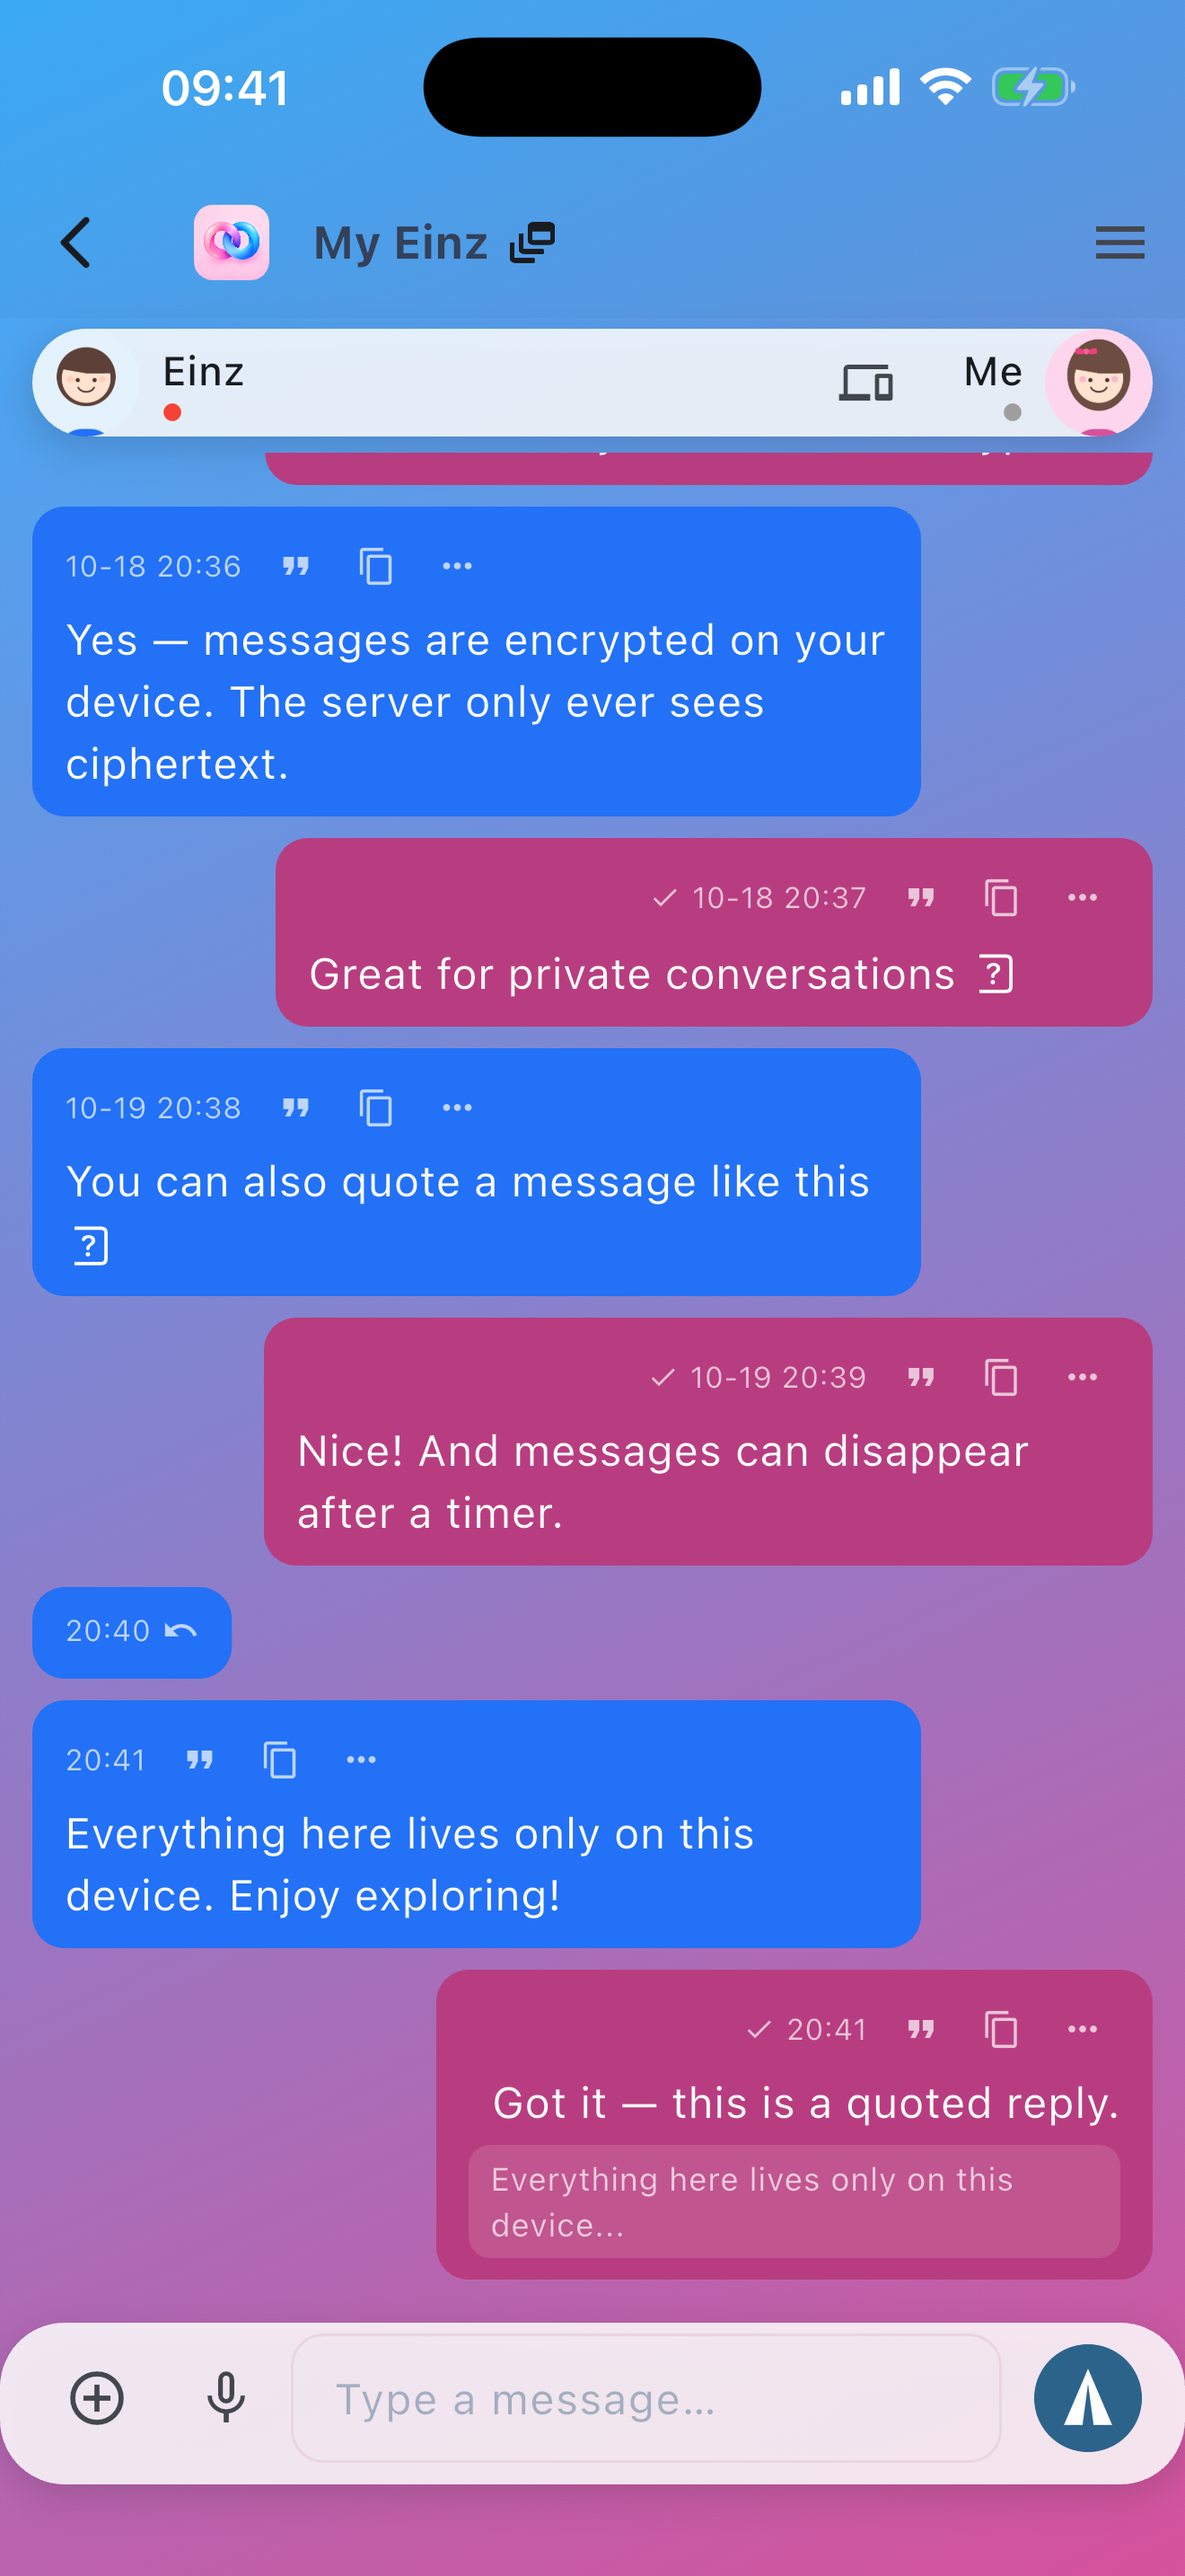
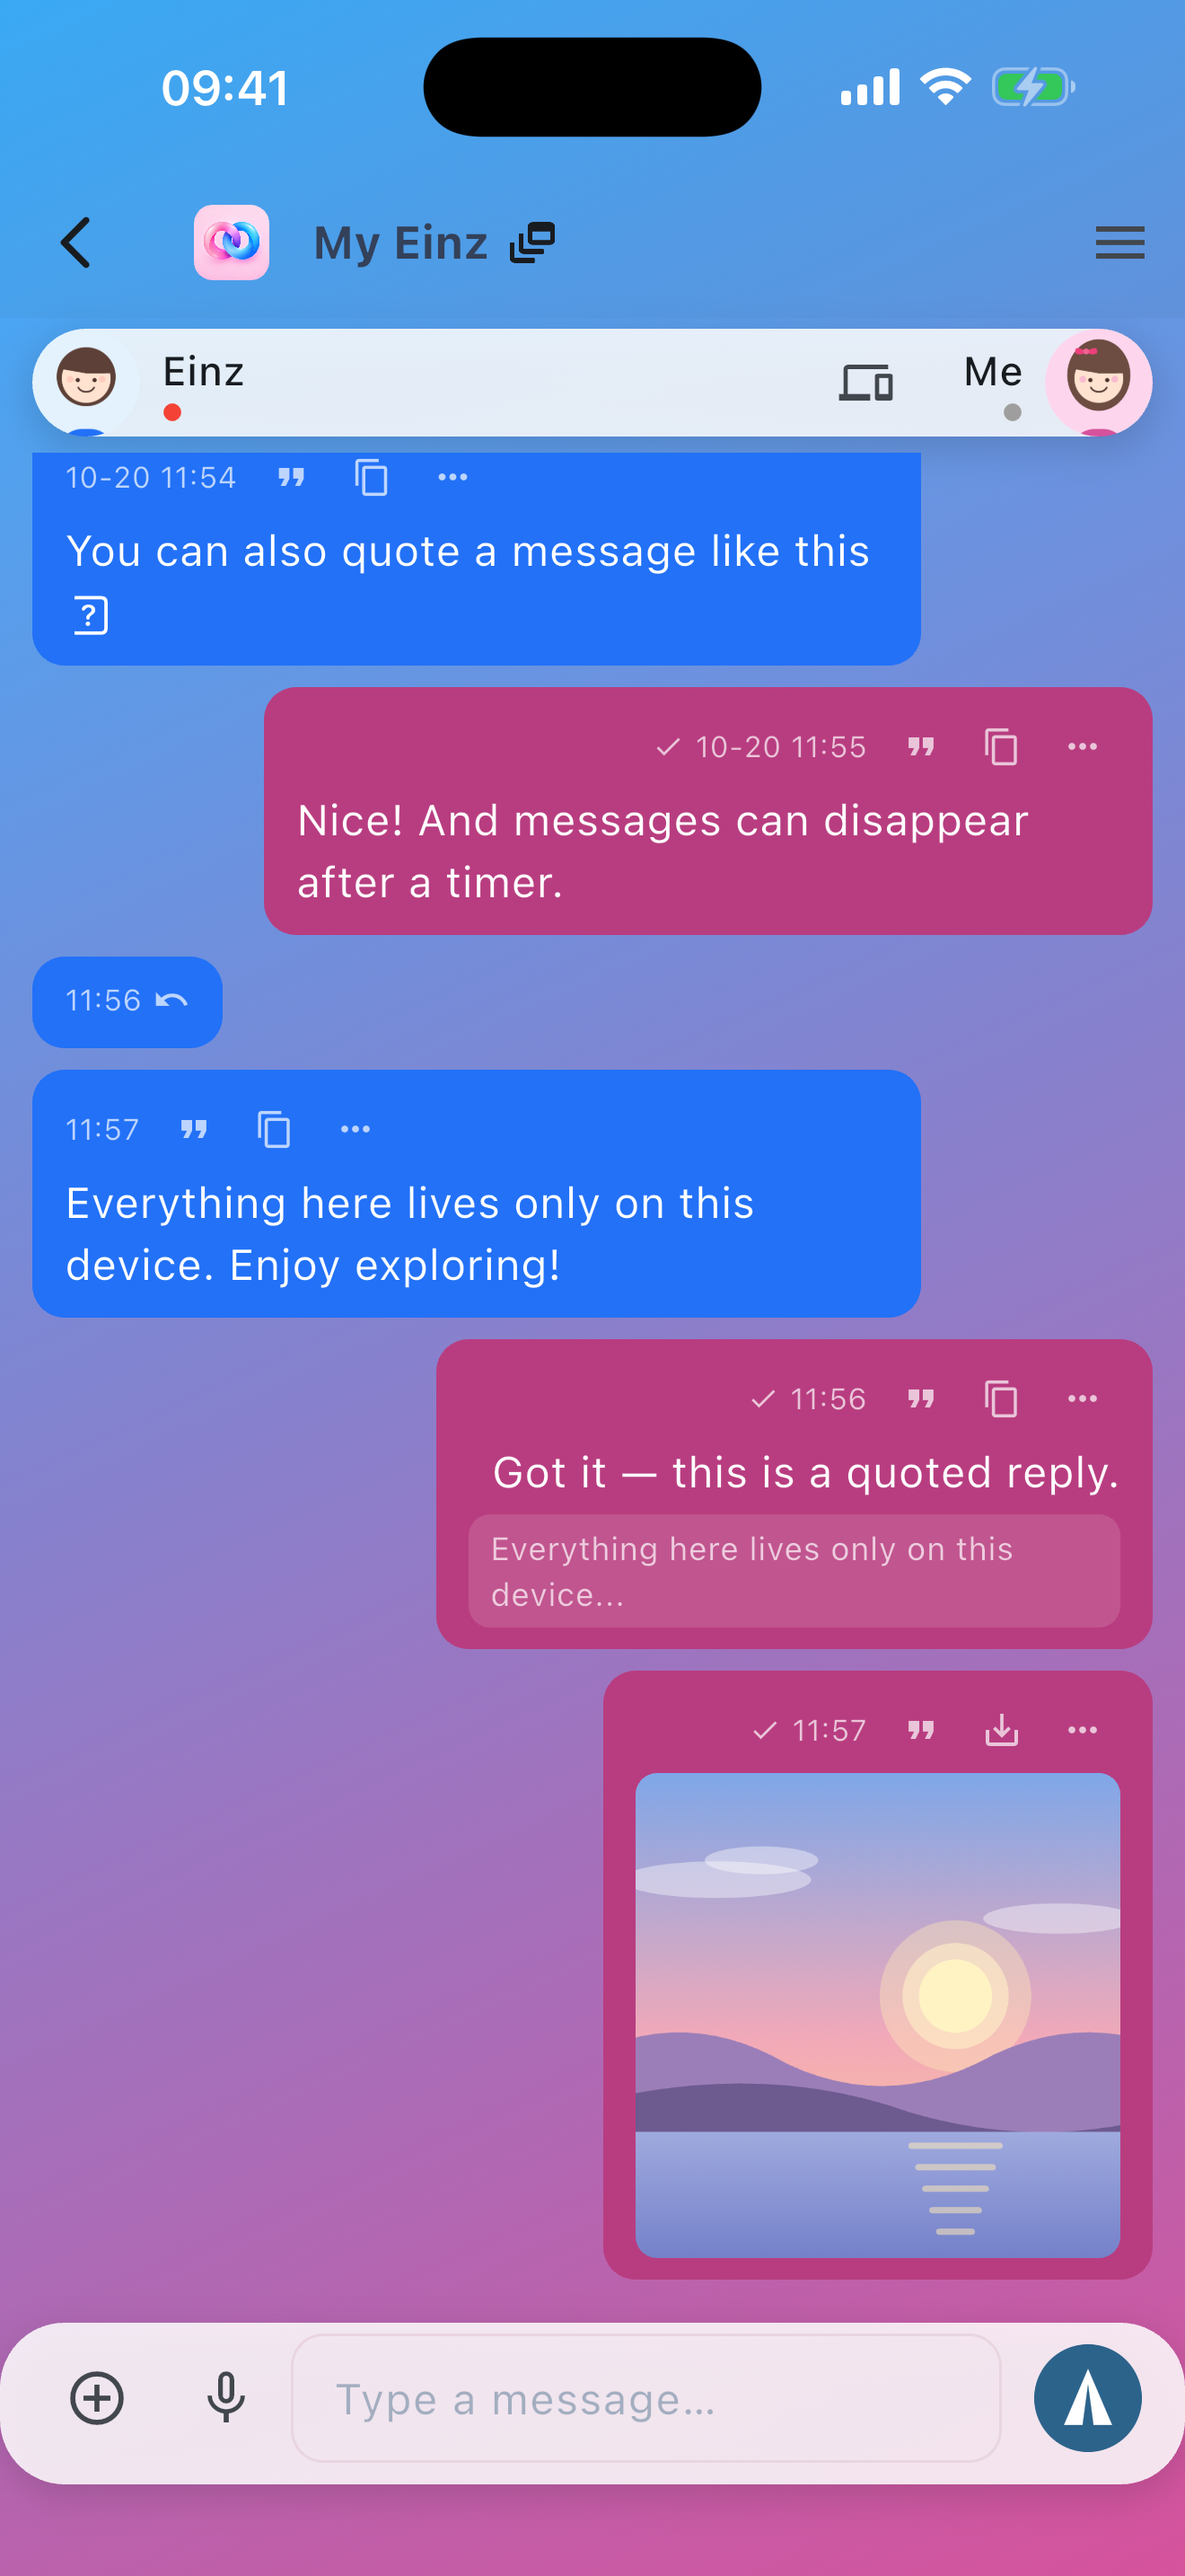
feat: 演示空间预设日出风景照片消息（真实附件链路，零二进制资产）
- _paintPhoto 纯 Dart 绘制日出风景，encryptAttachment 密文进 local_cipher
- 位置最后一条（引用回复挪早 1 分钟），聊天截图首屏最显眼处
- seed 版本 bump v2，重种前清理 demo 空间旧数据防双份
- 英文截图 5 张重新产出，03 聊天主界面含图片气泡

diff --git a/app/lib/data/demo_space.dart b/app/lib/data/demo_space.dart
@@ -38,8 +38,9 @@ class DemoSpace {
   static final Uint8List spaceKey =
       Uint8List.fromList(base64Decode('ZGVtb0RlbW9EZW1vRGVtb0RlbW9EZW1vRGVtbw=='));
 
-  /// seeding 是否已完成的 app_state 键（v1 = 内容结构版本，改演示内容时递增）。
-  static const String _kSeeded = 'demo_space.seeded_v1';
+  /// seeding 是否已完成的 app_state 键（内容结构版本，改演示内容时递增）。
+  /// v2 = 2026-10-21 新增预设图片消息（老板：截图画面更丰富）。
+  static const String _kSeeded = 'demo_space.seeded_v2';
 
   /// 我的/对方的演示显示名（走 l10n，见 setup 进入点传入）。
   static const String demoMemberName = 'Einz';
@@ -56,6 +57,14 @@ class DemoSpace {
           ..where((s) => s.key.equals(_kSeeded)))
         .getSingleOrNull();
     if (flag != null) return;
+    // 版本升级重种（如 v1→v2）：先清掉 demo 空间旧消息/附件，防止新旧两套并存。
+    // 只删 demo spaceId——真实空间的数据不受影响。
+    await (db.delete(db.localMessages)
+          ..where((t) => t.spaceId.equals(spaceId)))
+        .go();
+    await (db.delete(db.localAttachments)
+          ..where((t) => t.spaceId.equals(spaceId)))
+        .go();
 
     final now = DateTime.now().millisecondsSinceEpoch;
     final day = const Duration(days: 1).inMilliseconds;
@@ -155,7 +164,8 @@ class DemoSpace {
       nonce: quoteEnv.nonce,
       ciphertext: quoteEnv.ciphertext,
       serverSequence: seq,
-      createdAt: now,
+      // 比图片消息早 1 分钟——图片是最后一条（聊天页滚到底，截图最显眼位置）
+      createdAt: now - 60000,
     );
     await db.into(db.localMessages).insert(
           LocalMessagesCompanion.insert(
@@ -166,6 +176,73 @@ class DemoSpace {
             keyVersion: 1,
             nonce: quoteEnv.nonce,
             ciphertext: jsonEncode(quoteEnvFinal.toJson()),
+            createdAt: now - 60000,
+            localCreatedAt: now - 60000,
+            status: const Value('read'),
+            serverSequence: Value(seq),
+          ),
+        );
+    seq++;
+
+    // 图片消息（2026-10-21 老板：演示空间预设一张"照片"，截图画面更丰富）：
+    // 我方发的日出风景照（纯 Dart 运行时绘制，零二进制资产），走**真实的**
+    // 附件链路——encryptAttachment 密文进 local_attachments.local_cipher，
+    // 渲染/点击全屏与真实图片消息完全一致。caption 不上气泡，仅作载荷文本。
+    final photoId = 'demo-msg-${seq.toString().padLeft(4, '0')}';
+    final photoAttId = 'demo-att-${seq.toString().padLeft(4, '0')}';
+    final photoBytes = await _paintPhoto();
+    final enc = await encryptAttachment(
+      fileBytes: photoBytes,
+      spaceKey: spaceKey,
+      attachmentId: photoAttId,
+      spaceId: spaceId,
+      keyVersion: 1,
+    );
+    await db.into(db.localAttachments).insert(
+          LocalAttachmentsCompanion.insert(
+            attachmentId: photoAttId,
+            messageId: photoId,
+            keyVersion: 1,
+            size: enc.size,
+            sha256: enc.sha256,
+            nonce: base64Encode(enc.nonce),
+            localCipher: Value(enc.cipher),
+            spaceId: Value(spaceId),
+            status: const Value('downloaded'),
+          ),
+        );
+    final photoCaption = chinese
+        ? '晨跑的日出 🌅 和这里的一切一样，是加密的。'
+        : 'Sunrise from my morning walk 🌅 — encrypted like everything else here.';
+    final photoEnv = await encryptMessage(
+      plaintext: photoCaption,
+      spaceKey: spaceKey,
+      spaceId: spaceId,
+      senderEntranceId: myEntranceId,
+      messageId: photoId,
+      type: 'image',
+      keyVersion: 1,
+    );
+    final photoEnvFinal = MessageEnvelope(
+      v: photoEnv.v,
+      type: photoEnv.type,
+      keyVersion: photoEnv.keyVersion,
+      messageId: photoEnv.messageId,
+      senderEntranceId: photoEnv.senderEntranceId,
+      nonce: photoEnv.nonce,
+      ciphertext: photoEnv.ciphertext,
+      serverSequence: seq,
+      createdAt: now,
+    );
+    await db.into(db.localMessages).insert(
+          LocalMessagesCompanion.insert(
+            messageId: photoId,
+            spaceId: spaceId,
+            senderEntranceId: myEntranceId,
+            type: 'image',
+            keyVersion: 1,
+            nonce: photoEnv.nonce,
+            ciphertext: jsonEncode(photoEnvFinal.toJson()),
             createdAt: now,
             localCreatedAt: now,
             status: const Value('read'),
@@ -272,6 +349,98 @@ class DemoSpace {
     }
 
     final image = await rec.endRecording().toImage(size.toInt(), size.toInt());
+    final data = await image.toByteData(format: ui.ImageByteFormat.png);
+    return data!.buffer.asUint8List();
+  }
+
+  /// 演示"照片"：纯 Dart 画的日出风景（与头像同一套零二进制资产手法）。
+  /// 1024×768（4:3 随手拍比例）：渐变晨空 + 太阳光晕 + 云 + 两层山剪影 +
+  /// 水面与太阳倒影。配色与 app 品牌粉蓝渐变呼应。
+  static Future<Uint8List> _paintPhoto() async {
+    const w = 1024.0, h = 768.0;
+    final rec = ui.PictureRecorder();
+    final canvas = ui.Canvas(rec);
+    final rect = Rect.fromLTWH(0, 0, w, h);
+
+    // 晨空：上冷下暖（晨蓝 → 粉 → 暖橙）
+    canvas.drawRect(
+      rect,
+      Paint()
+        ..shader = ui.Gradient.linear(
+          Offset.zero,
+          Offset(0, h),
+          const [Color(0xFF7FA7E8), Color(0xFFF2A9B8), Color(0xFFFFD08A)],
+          const [0.0, 0.55, 1.0],
+        ),
+    );
+
+    // 太阳：光晕（大半透明圆）+ 亮核
+    final sun = Offset(w * 0.62, h * 0.46);
+    canvas.drawCircle(sun, 120, Paint()..color = const Color(0x66FFE9B8));
+    canvas.drawCircle(sun, 84, Paint()..color = const Color(0x99FFF0C8));
+    canvas.drawCircle(sun, 58, Paint()..color = const Color(0xFFFFF3C4));
+
+    // 云（半透明白椭圆组）
+    final cloud = Paint()..color = const Color(0x66FFFFFF);
+    canvas.drawOval(
+        Rect.fromCenter(center: Offset(w * 0.25, h * 0.22), width: 300, height: 58), cloud);
+    canvas.drawOval(
+        Rect.fromCenter(center: Offset(w * 0.32, h * 0.18), width: 180, height: 44), cloud);
+    canvas.drawOval(
+        Rect.fromCenter(center: Offset(w * 0.78, h * 0.30), width: 240, height: 48), cloud);
+
+    // 远山（淡紫）与近山（深紫）剪影
+    final back = ui.Path()
+      ..moveTo(0, h * 0.62)
+      ..quadraticBezierTo(w * 0.18, h * 0.46, w * 0.36, h * 0.60)
+      ..quadraticBezierTo(w * 0.52, h * 0.70, w * 0.68, h * 0.58)
+      ..quadraticBezierTo(w * 0.84, h * 0.48, w, h * 0.60)
+      ..lineTo(w, h * 0.74)
+      ..lineTo(0, h * 0.74)
+      ..close();
+    canvas.drawPath(back, Paint()..color = const Color(0xFF9B7EB8));
+    final front = ui.Path()
+      ..moveTo(0, h * 0.70)
+      ..quadraticBezierTo(w * 0.30, h * 0.58, w * 0.55, h * 0.70)
+      ..quadraticBezierTo(w * 0.78, h * 0.79, w, h * 0.68)
+      ..lineTo(w, h * 0.76)
+      ..lineTo(0, h * 0.76)
+      ..close();
+    canvas.drawPath(front, Paint()..color = const Color(0xFF6D5A8E));
+
+    // 水面：湖蓝渐变 + 高光提亮
+    const waterTop = 0.74;
+    canvas.drawRect(
+      Rect.fromLTWH(0, h * waterTop, w, h * (1 - waterTop)),
+      Paint()
+        ..shader = ui.Gradient.linear(
+          Offset(0, h * waterTop),
+          Offset(0, h),
+          const [Color(0xFF8E9BD8), Color(0xFF5C6BC0)],
+        ),
+    );
+    canvas.drawRect(Rect.fromLTWH(0, h * waterTop, w, h * (1 - waterTop)),
+        Paint()..color = const Color(0x26FFFFFF));
+
+    // 太阳倒影：一列渐短的横向亮条
+    final glint = Paint()..color = const Color(0x88FFE9B8);
+    for (var i = 0; i < 5; i++) {
+      canvas.drawRRect(
+        RRect.fromRectAndCorners(
+          Rect.fromCenter(
+              center: Offset(sun.dx, h * waterTop + 22.0 + i * 34),
+              width: 150 - i * 22,
+              height: 10),
+          topLeft: const Radius.circular(5),
+          topRight: const Radius.circular(5),
+          bottomLeft: const Radius.circular(5),
+          bottomRight: const Radius.circular(5),
+        ),
+        glint,
+      );
+    }
+
+    final image = await rec.endRecording().toImage(w.toInt(), h.toInt());
     final data = await image.toByteData(format: ui.ImageByteFormat.png);
     return data!.buffer.asUint8List();
   }

diff --git a/aimemo/worklog.md b/aimemo/worklog.md
@@ -15306,3 +15306,5 @@ plutil/PowerShell VersionInfo/strings 各读法均为平台标准机制。CI 下
 **（2026-10-21T03:27:20Z / 2026-10-21 11:27）**：首设场景新 PIN 框恢复直接可输入（commit bfd695e2）。老板 2026-10-21 定：还没设 PIN 时没东西可"略过只调时长"，点按解锁（编辑图标+淡灰底）只在更换场景有意义。首设场景 unlockable:false、autofocus 恢复（桌面版打开弹窗焦点直落输入框）、小眼睛常驻；更换场景保持点按解锁。另：前一轮"三卡合一"试验经老板查看后撤回——三张分开的分组卡更清晰，不合并。验证：analyze 无问题、chat_page_menu_test 46 用例全过。aimemo/appStoreSubmission.zhcn.md 仍是老板自己的未提交改动。
 
 **（2026-10-21T03:50:12Z / 2026-10-21 11:50）**：拷贝文字消息的通知从光秃秃的「已复制 / Copied」改为「Copied: 被拷的内容，超一行截断成省略号」（老板 2026-10-21）。新增 l10n key `chatPageCopiedText`（占位 {text}；en "Copied: {text}"、zh "已复制: {text}"），旧通用 key `setupCreateCopied` 随两处引用清零从 arb 删除（沿用旧 `chatPageCopied` 先例）。**top_notice.dart 新增 `ellipsizeToNoticeLine(context, text)`**：TextPainter 按通知条真实排版（样式 kNoticeTextStyle + 宽度算式 noticeTextMaxWidth，与 _TopNoticeBanner 布局同源）二分找出最长能排进一行的前缀再补「…」——刻意不数字数：中英文宽度差一倍多、桌面窗口宽窄不一，固定字数窄屏换行、宽屏乱截；含换行的文案在第一处排不下处截（"第一行…"）。横幅 Text 样式提取为 kNoticeTextStyle 与截断共用（改一处即两处生效）。chat_page 两处拷贝入口（长按菜单 copy 分支、气泡快捷拷贝按钮）都改为先 trim 写剪贴板、再通知。验证：flutter analyze 0 问题；通知观感（截断位置/窄屏不换行）由老板自测。提交隔离：工作区有老板未提交的 chatPageSetLockHintNoPin 改词（arb 已改、生成文件由本轮 gen-l10n 顺带同步），用 git apply --cached 只暂存本轮 7 文件，该 hunk 原样留在工作区未动。
+
+**（2026-10-21T03:59:39Z / 2026-10-21 11:59）**：演示空间预设一条图片消息（老板：不再截长按菜单后，让聊天主界面截图更丰富）。实现（demo_space.dart）：纯 Dart 运行时画一张日出风景照 `_paintPhoto()`（1024×768：渐变晨空+太阳光晕+云+两层山剪影+水面倒影，配色呼应品牌粉蓝，与卡通头像同一套零二进制资产手法），走**真实附件链路**种入——`encryptAttachment` 密文进 `local_attachments.local_cipher`（status='downloaded'，对齐 sendAttachment isDemo 分支），消息行 type='image' + caption 进密文载荷（气泡不渲染 caption）；渲染/点击全屏与真实图片消息完全一致。位置：最后一条（我方，引用回复挪早 1 分钟让位）→ 聊天页滚到底后处于截图最显眼处。seed 版本 `_kSeeded` bump v1→v2，且重种前清理 demo 空间旧消息/附件（只按 demo spaceId 删，防升级后新旧两套并存）。重跑英文截图流水线验证：03 聊天主界面图片气泡正常（180×180 缩略+下载图标+双勾回执），5 张全过、仓库已更新。
